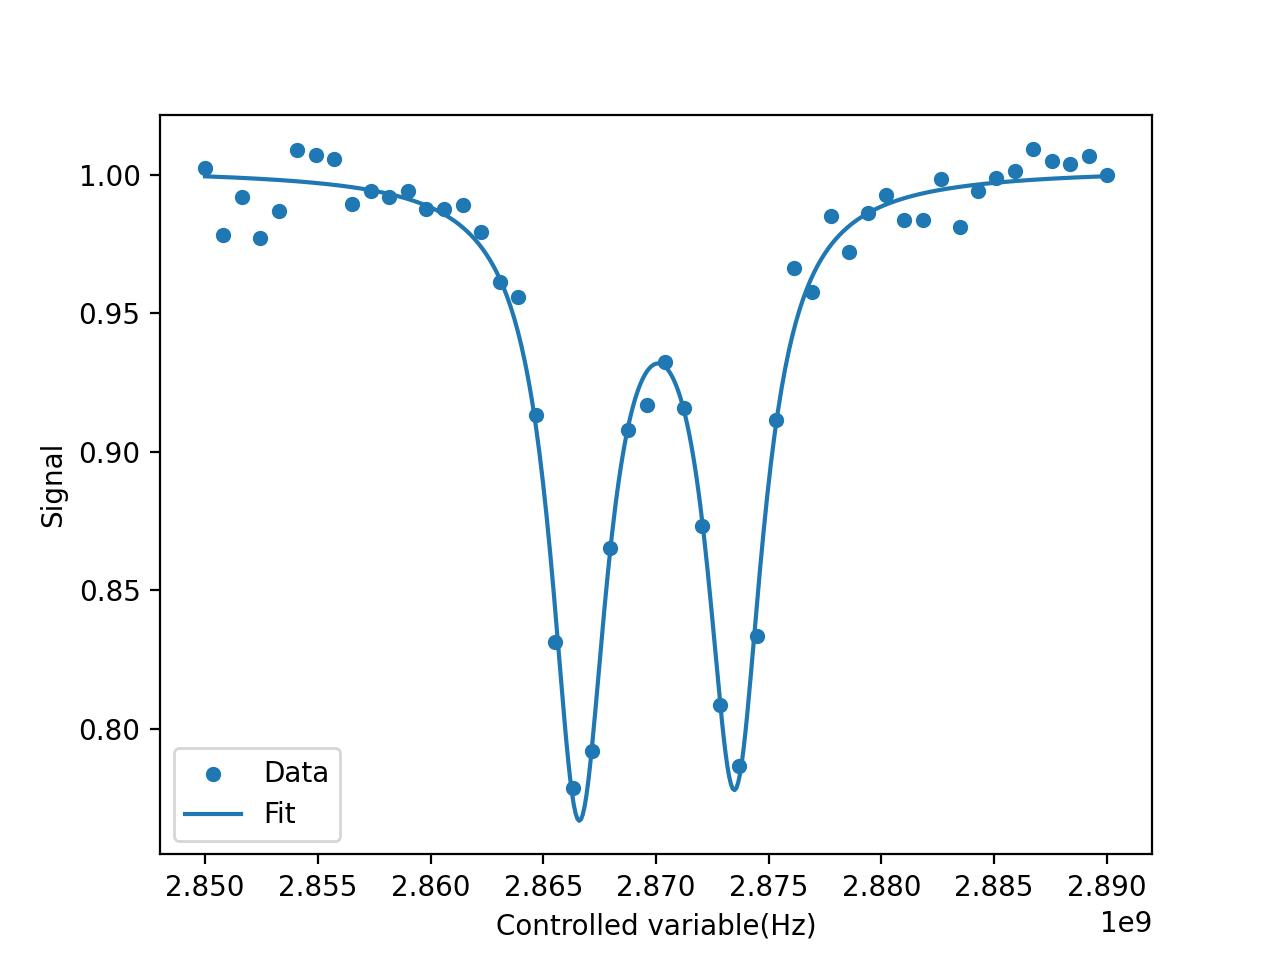
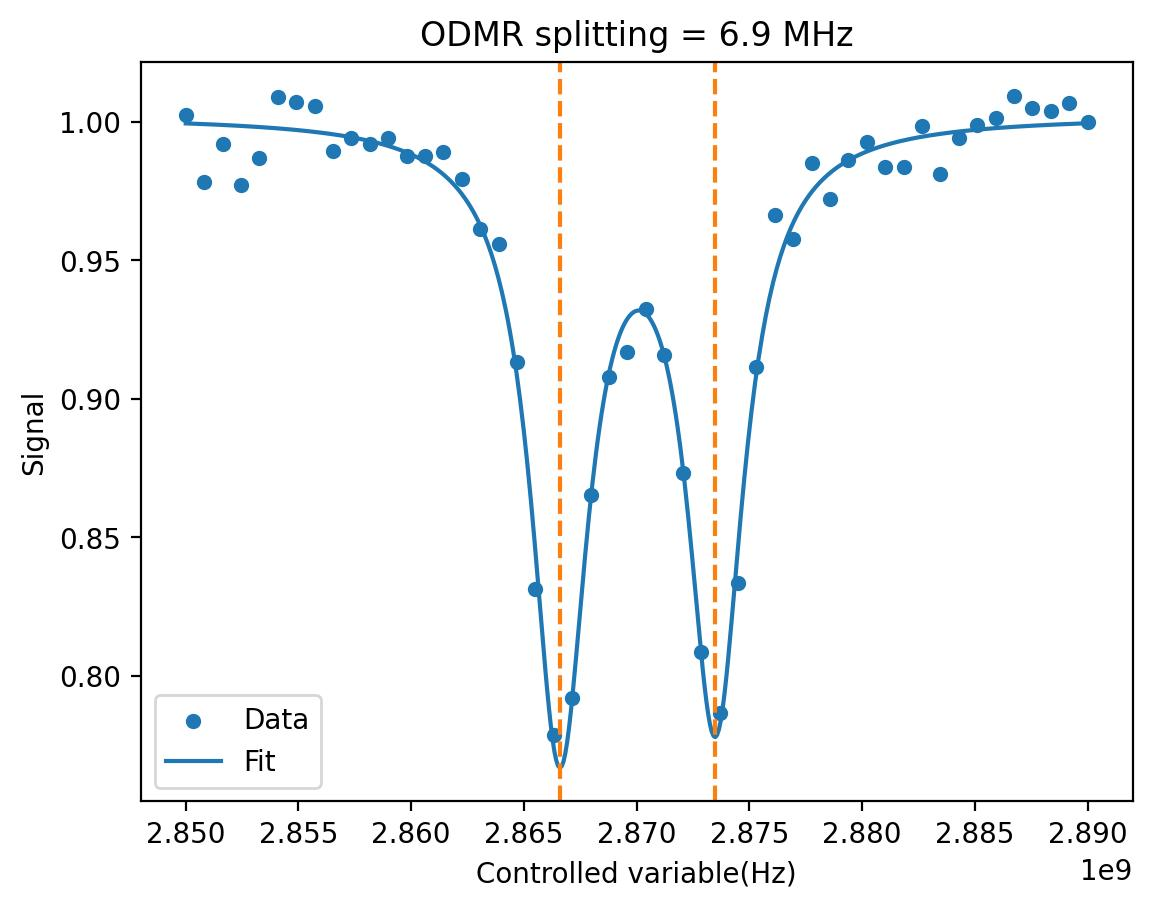
Updated README.md and doc images

Changed region(s): [[0.0, 0.0, 1.0, 0.9868]]

diff --git a/README.md b/README.md
@@ -28,12 +28,10 @@ should cite [this work](https://doi.org/10.5281/zenodo.7604670).
 
 ## Features
 
-- Easy-to-use modular architecture
 - Automated data import and handling
-- Works natively with data from [Qudi](https://github.com/Ulm-IQO/qudi)
-  and [Qudi-Hira](https://github.com/projecthira/qudi-hira)
-- Supports all fitting routines and file formats used in NV magnetometry, AFM, MFM and NV-SPM
-- Fast and robust curve fitting for 2D ODMR data
+- Works natively with data from [Qudi](https://github.com/Ulm-IQO/qudi) and [Qudi-Hira](https://github.com/projecthira/qudi-hira)
+- Fast and robust curve fitting for NV-ODMR 2D maps, Autocorrelation, Rabi, Ramsey, T1, T2 and more...
+- Supports all file formats used in NV magnetometry, AFM, MFM and NV-SPM
 - Uses a Dataclass-centered design for easy access to data and metadata
 
 ## Usage
@@ -58,9 +56,15 @@ odmr = odmr_measurements["20230101-0420-00"]
 x_fit, y_fit, result = dh.fit(x="Controlled variable(Hz)", y="Signal",
                               fit_function=dh.fit_function.lorentziandouble, data=odmr.data)
 
-# Plot the data and fit
+# Plot the data and the fit
 ax = sns.scatterplot(x="Controlled variable(Hz)", y="Signal", data=odmr.data, label="Data")
 sns.lineplot(x=x_fit, y=y_fit, ax=ax, label="Fit")
+
+# Calculate the ODMR splitting
+ax.axvline(result.best_values["l0_center"], ls="--", color="C1")
+ax.axvline(result.best_values["l1_center"], ls="--", color="C1")
+splitting = (result.best_values["l1_center"] - result.best_values["l0_center"]) / 1e6
+ax.set_title(f"Splitting = {round(splitting, 2)} MHz")
 
 # Generate fit report
 print(result.fit_report())
